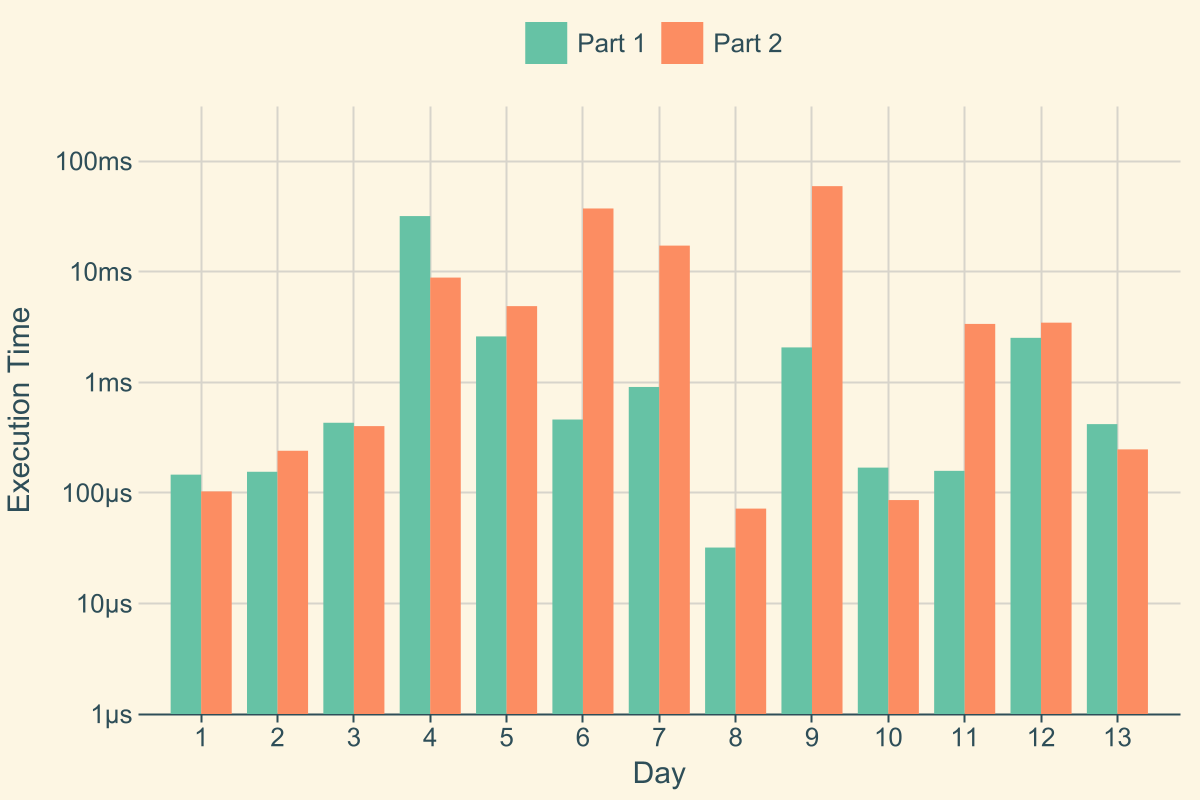
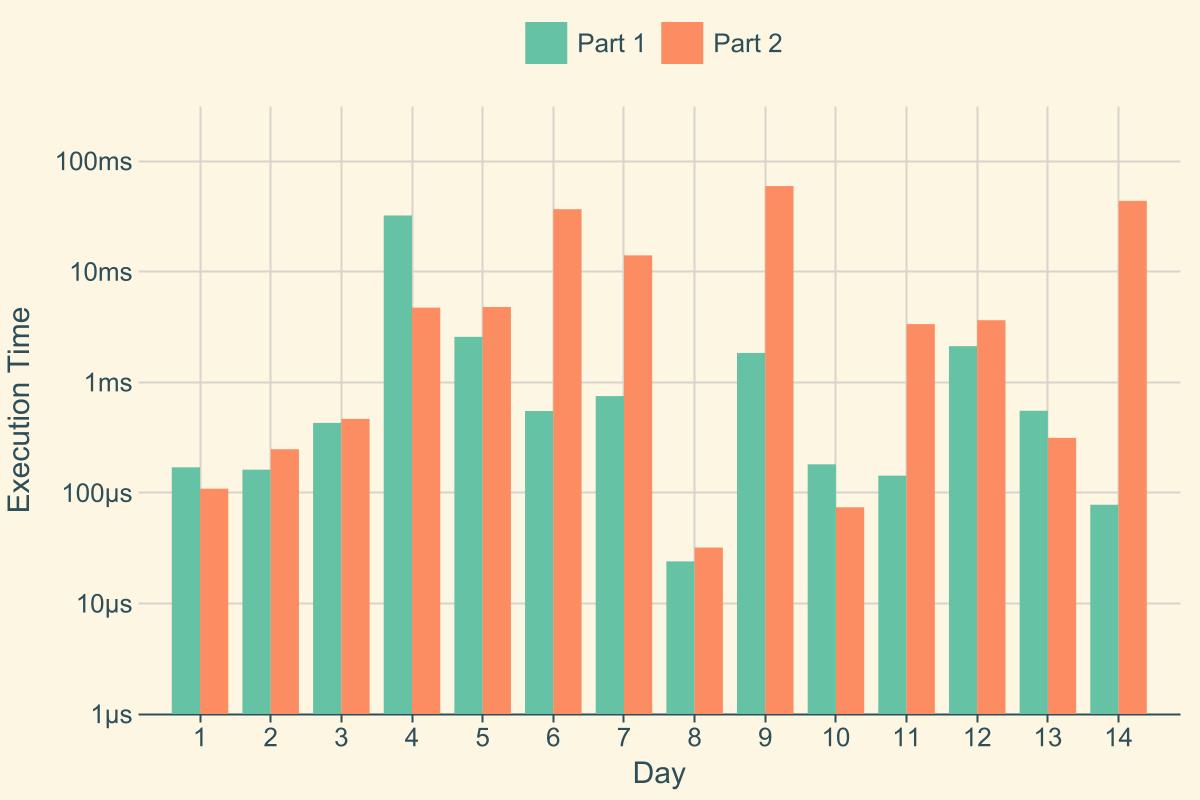
day14 optimized

Changed region(s): [[0.1233, 0.2188, 0.9558, 0.9375], [0.925, 0.9062, 0.9558, 0.9375]]

diff --git a/src/day14.rs b/src/day14.rs
@@ -1,9 +1,7 @@
 use crate::harness::Day;
 use crate::harness::Part;
-use image::{Rgb, RgbImage};
 use std::collections::HashSet;
 use std::ops::{Add, AddAssign, Mul, Neg, Sub};
-use std::path::Path;
 
 pub fn day14() -> Day<i32, i32> {
     Day::new(14, Box::new(Part1 {}), Box::new(Part2 {}))
@@ -60,16 +58,24 @@ impl Part<i32> for Part2 {
             return 0;
         }
 
-        for i in 1.. {
+        'outer: for iteration in 1.. {
             for robot in &mut input.robots {
                 robot.walk_once(input.width, input.height);
             }
 
-            let robots = input
-                .robots
-                .iter()
-                .map(|e| e.position)
-                .collect::<HashSet<_>>();
+            // Initial input before scrambling is generated with no overlaps, so we can skip iterations that have an overlap 
+            
+            for i in 0..input.robots.len() {
+                for j in i + 1..input.robots.len() {
+                    if input.robots[i].position == input.robots[j].position {
+                        continue 'outer;
+                    }
+                }
+            }
+
+            // Technically the flood fill isn't needed because there's always a robot stacked somewhere, but that's not a guarantee so I'm leaving it.
+            
+            let robots: HashSet<Vec2> = HashSet::from_iter(input.robots.iter().map(|e| e.position));
 
             for robot in &input.robots {
                 let mut open = vec![robot.position];
@@ -90,9 +96,8 @@ impl Part<i32> for Part2 {
                         }
                     }
                 }
-
                 if current_closed.len() > 50 {
-                    return i;
+                    return iteration;
                 }
             }
         }
